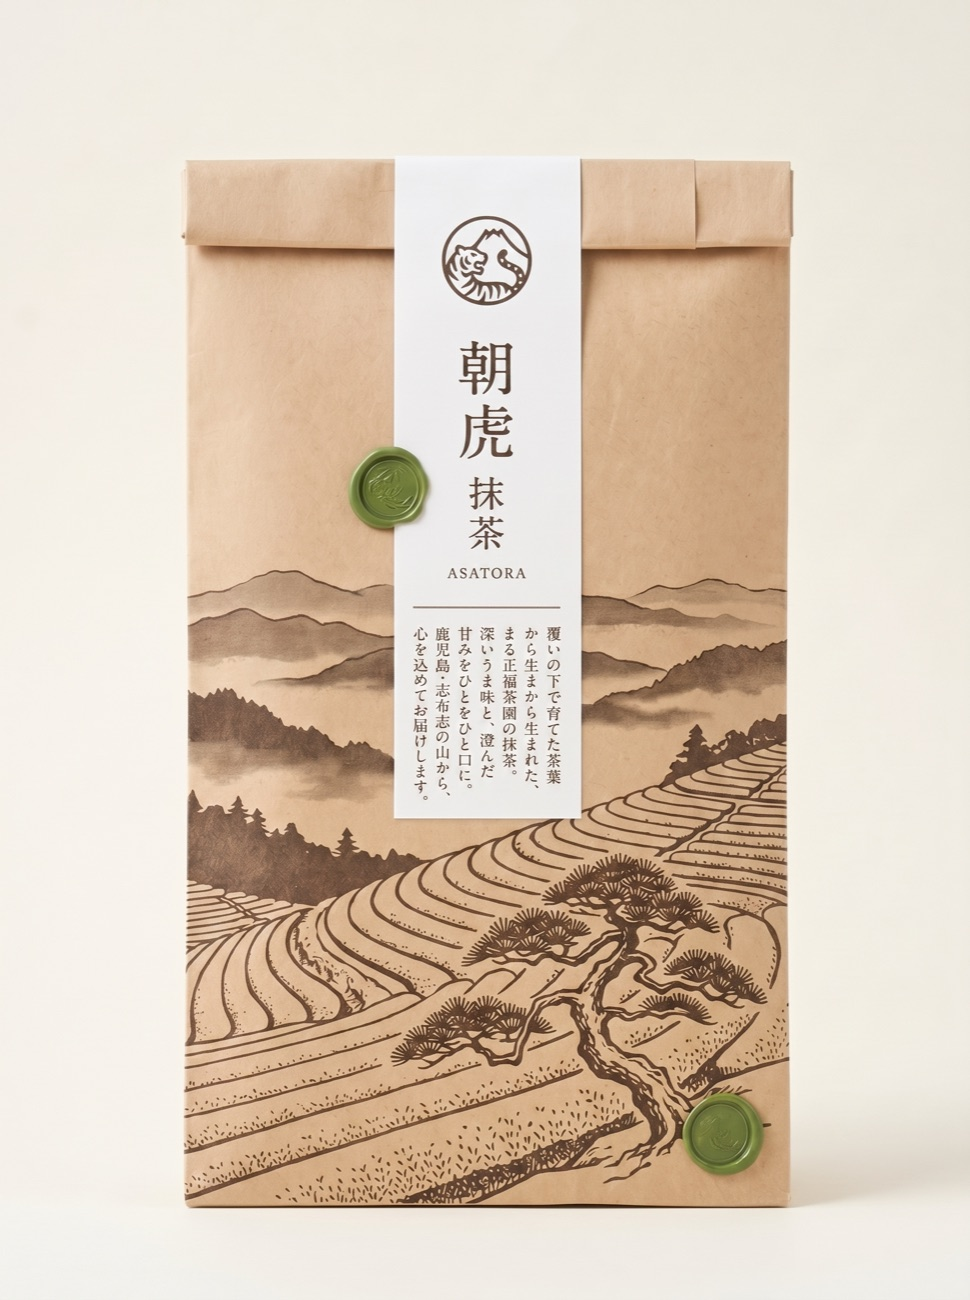
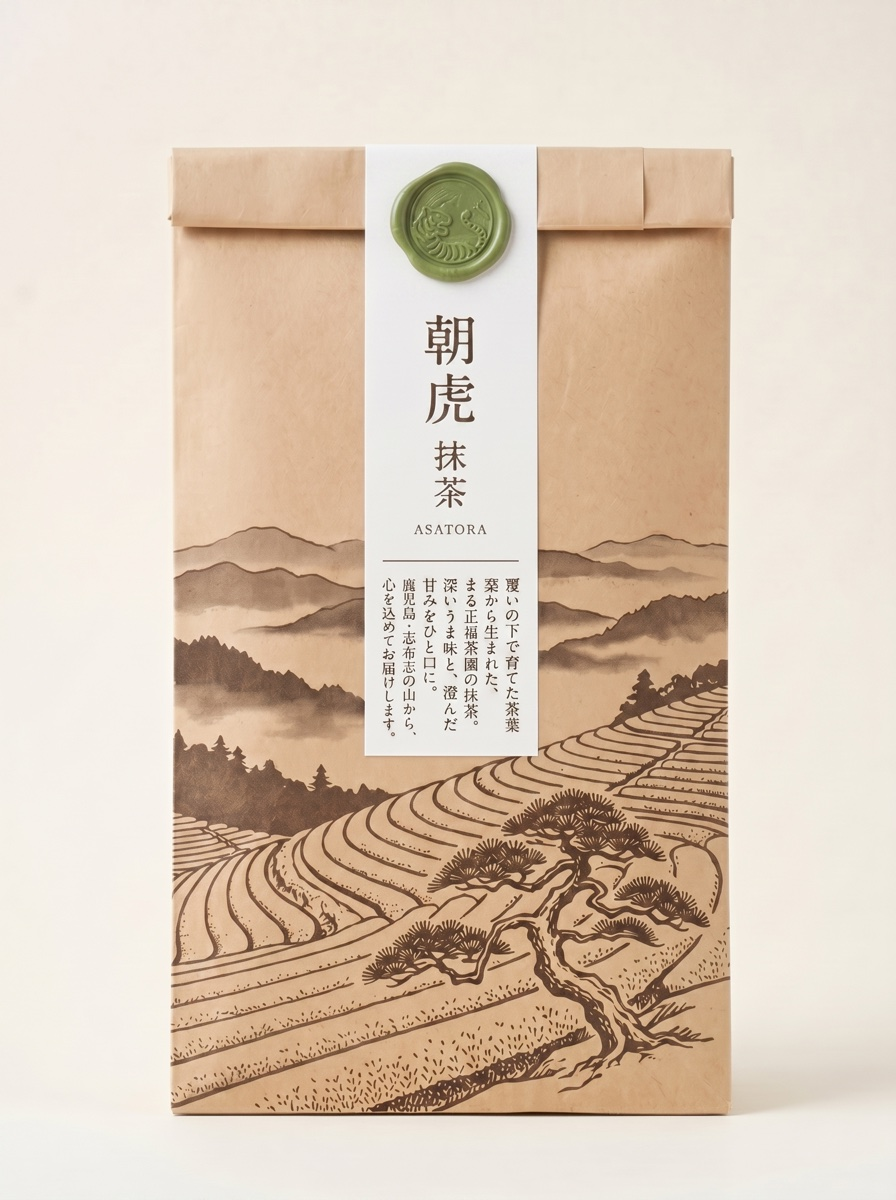
Products: new bag shot + customer-first hover close-ups (tin & bag)
Replace the refill-bag image with the new standing-bag render. Restructure
the pinned media into per-product slides with a hover layer: hovering the
active product crossfades the studio shot to a lifestyle close-up of the
same product in use (dawn home ritual) — generated with the product photos
as references. Adds a "Hover to see it in use" hint, hidden on touch.

Changed region(s): [[0.1875, 0.1233, 0.8125, 0.9558], [0.4062, 0.6475, 0.5, 0.6783], [0.6875, 0.5858, 0.7188, 0.6167]]

diff --git a/assets/editorial.css b/assets/editorial.css
@@ -111,12 +111,26 @@
 @media (min-width: 900px) {
   .pinned__media { position: sticky; top: calc(var(--header-h) + var(--space-12)); height: 78vh; aspect-ratio: auto; }
 }
-.pinned__media img {
-  position: absolute; inset: 0; width: 100%; height: 100%; object-fit: cover;
-  opacity: 0; transform: scale(1.04);
-  transition: opacity var(--dur-slow) var(--ease-fv), transform 6s var(--ease-fv);
+/* each product = a slide (primary + hover layer); scroll toggles .is-active */
+.pinned__slide {
+  position: absolute; inset: 0; opacity: 0; pointer-events: none;
+  transition: opacity var(--dur-slow) var(--ease-fv);
 }
-.pinned__media img.is-active { opacity: 1; transform: scale(1); }
+.pinned__slide.is-active { opacity: 1; pointer-events: auto; }
+.pinned__img { position: absolute; inset: 0; width: 100%; height: 100%; object-fit: cover; }
+/* hover layer — the customer-first lifestyle close-up, crossfades in on hover */
+.pinned__img--hover { opacity: 0; transform: scale(1.05); transition: opacity var(--dur-slow) var(--ease-fv), transform 7s var(--ease-fv); }
+.pinned__slide:hover .pinned__img--hover { opacity: 1; transform: scale(1); }
+/* hint chip — fades out once the active slide is hovered */
+.pinned__hint {
+  position: absolute; left: var(--space-4); bottom: var(--space-4); z-index: 3;
+  padding: var(--space-2) var(--space-4); border-radius: 100px;
+  background: rgba(20,15,11,.42); backdrop-filter: blur(6px);
+  color: var(--white); font-size: var(--step-overline); letter-spacing: var(--track-overline);
+  text-transform: uppercase; transition: opacity var(--dur) var(--ease);
+}
+.pinned__media:hover .pinned__hint { opacity: 0; }
+@media (hover: none) { .pinned__hint { display: none; } }  /* touch: no hover affordance */
 .pinned__media .vtext {       /* vertical caption over the pinned image */
   position: absolute; top: var(--space-6); right: var(--space-4); z-index: 2;
   color: var(--white); font-size: var(--step-overline); letter-spacing: .3em;

diff --git a/index.html b/index.html
@@ -72,9 +72,18 @@
       <div class="container pinned">
         <div class="pinned__grid">
           <div class="pinned__media" aria-hidden="true">
-            <img data-pin="0" class="is-active" src="assets/tin.jpg" alt="" width="1500" height="1500">
-            <img data-pin="1" src="assets/sku-bag.jpg" alt="" width="970" height="1300">
-            <img data-pin="2" src="assets/provenance.jpg" alt="" width="1120" height="1500">
+            <div class="pinned__slide is-active" data-pin="0">
+              <img class="pinned__img" src="assets/tin.jpg" alt="" width="1500" height="1500">
+              <img class="pinned__img pinned__img--hover" src="assets/tin-hover.jpg" alt="" width="896" height="1200" loading="lazy">
+            </div>
+            <div class="pinned__slide" data-pin="1">
+              <img class="pinned__img" src="assets/sku-bag.jpg" alt="" width="896" height="1200">
+              <img class="pinned__img pinned__img--hover" src="assets/bag-hover.jpg" alt="" width="896" height="1200" loading="lazy">
+            </div>
+            <div class="pinned__slide" data-pin="2">
+              <img class="pinned__img" src="assets/provenance.jpg" alt="" width="1120" height="1500">
+            </div>
+            <span class="pinned__hint" aria-hidden="true">Hover to see it in use</span>
             <p class="vtext">First harvest · 一番茶</p>
           </div>
           <div class="pinned__list">
